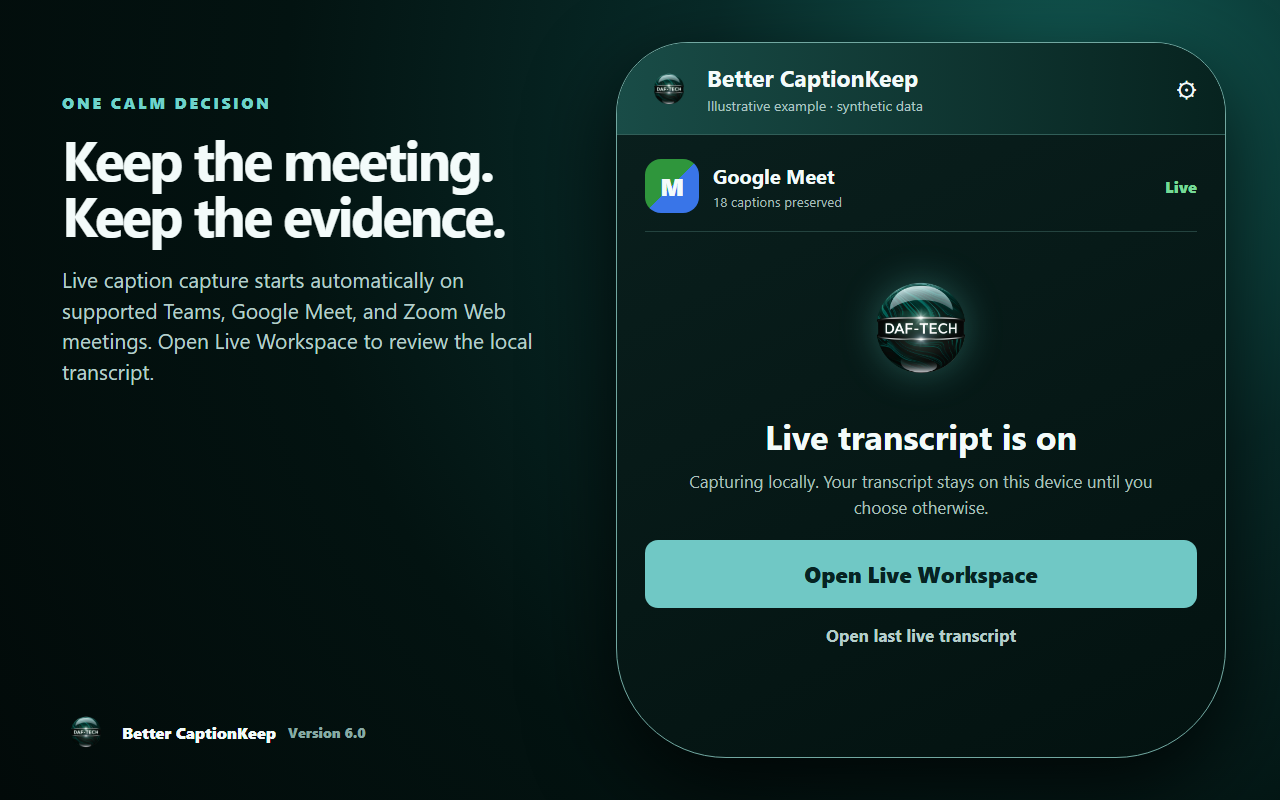
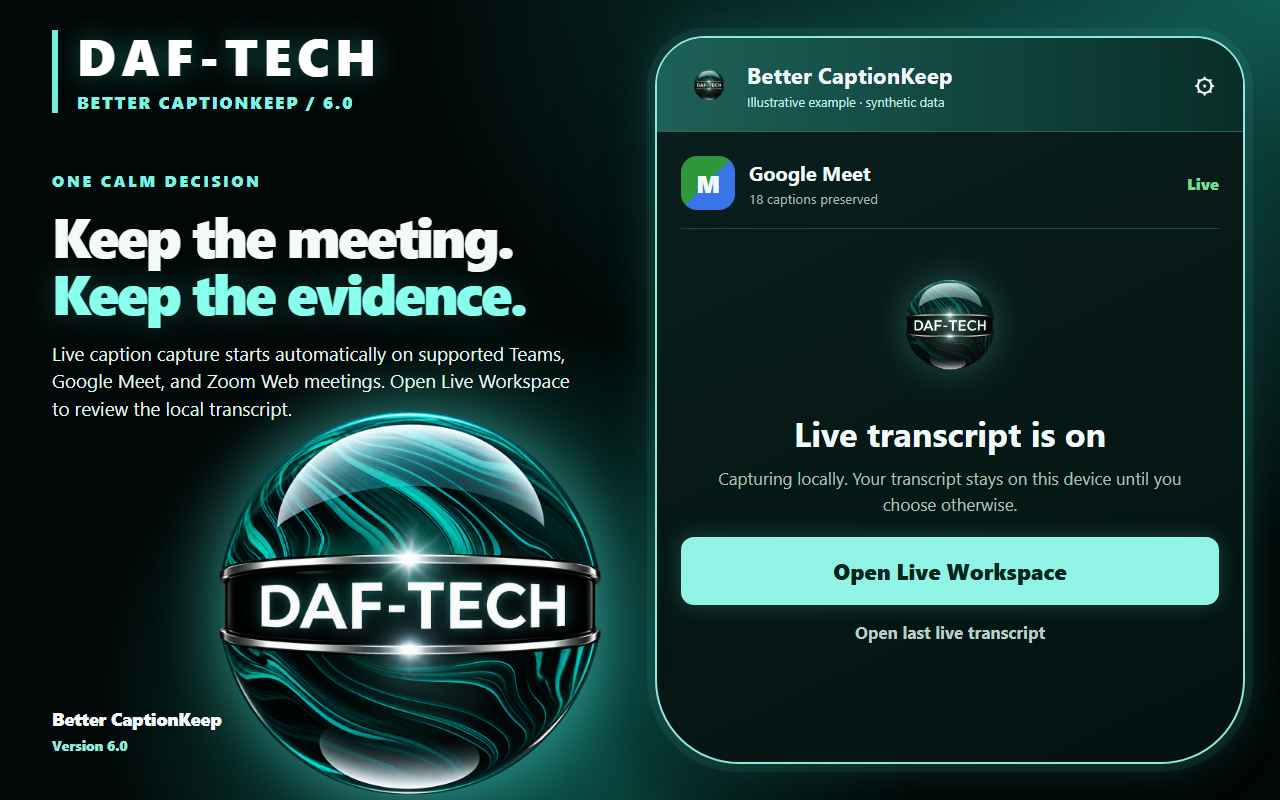
Codex: record owner-approved bold DAF-TECH 6.0 artwork

diff --git a/store-assets/6.0/source.html b/store-assets/6.0/source.html
@@ -2,11 +2,38 @@
 <html lang="en"><head><meta charset="utf-8"><meta name="viewport" content="width=device-width,initial-scale=1"><title>Better CaptionKeep 6.0 Store artwork</title>
 <style>
 *{box-sizing:border-box}html,body{margin:0;width:100%;height:100%;overflow:hidden}body{font-family:Inter,"Segoe UI",Arial,sans-serif;background:#03100f;color:#f3fbfa}.slide{display:none;position:relative;width:100vw;height:100vh;padding:58px 62px;background:radial-gradient(circle at 84% 14%,#135f58 0,#082b29 29%,#031311 62%,#020a09 100%)}body.s1 #s1,body.s2 #s2,body.s3 #s3,body.s4 #s4,body.s5 #s5{display:block}.copy{position:absolute;left:62px;top:92px;width:42%;z-index:2}.eyebrow{font-size:16px;font-weight:850;letter-spacing:.16em;text-transform:uppercase;color:#6fd3ca}.copy h1{text-wrap:balance;font-size:55px;line-height:1.02;letter-spacing:-.045em;margin:18px 0}.copy p{max-width:480px;font-size:21px;line-height:1.45;color:#b6ceca}.brand{position:absolute;left:62px;bottom:44px;display:flex;align-items:center;gap:12px;font-weight:800}.brand img{width:48px;height:48px}.brand small{font-size:14px;color:#88aaa5}.window{position:absolute;right:54px;top:42px;width:610px;height:716px;border:1px solid #72a8a1;border-radius:72px 72px 110px 110px;background:linear-gradient(155deg,#0a201e,#031210);box-shadow:0 30px 86px #000c;overflow:hidden}.head{height:92px;padding:22px 28px;background:linear-gradient(90deg,#194c47,#07231f);display:flex;align-items:center;gap:14px;border-bottom:1px solid #315e58}.head img{width:48px;height:48px}.head b{font-size:23px}.head span{display:block;color:#abc5c1;font-size:14px;margin-top:3px}.gear{margin-left:auto;font-size:25px}.body{padding:24px 28px}.source{display:flex;align-items:center;gap:14px;padding-bottom:18px;border-bottom:1px solid #24433f}.sourceicon{width:54px;height:54px;border-radius:16px;display:grid;place-items:center;background:linear-gradient(135deg,#2f963c 0 50%,#3975e8 50%);font-weight:900;font-size:24px}.source strong{font-size:20px}.source small{display:block;color:#a5bdb9;margin-top:4px}.ready{margin-left:auto;color:#76d997;font-weight:850}.sphere{width:142px;height:142px;margin:25px auto 14px;display:block;filter:drop-shadow(0 0 18px #58c7bb55)}.center{text-align:center}.center h2{text-wrap:balance;font-size:34px;margin:8px 0 10px}.center p{font-size:17px;line-height:1.5;color:#abc0bd;margin:0 auto 20px;max-width:500px}.primary{height:68px;border-radius:13px;background:#70c8c5;color:#062322;display:grid;place-items:center;font-weight:900;font-size:22px}.secondary{text-align:center;padding:16px 0;color:#b6ceca;font-size:17px;font-weight:750}.platforms{display:grid;grid-template-columns:repeat(3,1fr);gap:10px;margin-top:14px}.platform{padding:13px 5px;border:1px solid #35615b;border-radius:13px;text-align:center;background:#102b27;font-weight:800}.tabs{display:flex;gap:8px;margin-bottom:18px}.tab{padding:10px 13px;border-radius:999px;color:#91aaa6;font-weight:750}.tab.on{background:#1d524c;color:#fff}.card{border:1px solid #315d57;background:#0d2925;border-radius:16px;padding:17px;margin-top:14px}.card h3{margin:0 0 9px;font-size:19px}.card p{margin:0;color:#b4c9c5;line-height:1.45}.cite{color:#74d3c8;font-weight:800}.row{display:flex;flex-wrap:wrap;gap:10px;margin-top:14px}.button{padding:11px 14px;border-radius:10px;border:1px solid #4a756f;background:#173934;font-weight:800}.button.hot{background:#6cc4c0;color:#062120}.moment{height:205px;border-radius:16px;background:linear-gradient(140deg,#274c46,#10201e);display:grid;place-items:center;position:relative;overflow:hidden}.moment img{width:118px}.stamp{position:absolute;bottom:15px;left:16px;padding:8px 11px;background:#07120fee;border-radius:9px;font-size:12px}.receipt{display:grid;grid-template-columns:1fr 1fr;gap:12px}.metric{padding:16px;border-radius:14px;background:#102c28;border:1px solid #315954}.metric b{font-size:26px;display:block}.metric span{color:#a8c0bc;font-size:13px}.settings{display:grid;grid-template-columns:1fr 1fr;gap:11px}.setting{padding:14px;border-radius:13px;border:1px solid #315b55;background:#102924}.setting b{display:block;margin-bottom:5px}.setting span{font-size:13px;color:#9eb8b3}.switch{float:right;width:38px;height:21px;border-radius:999px;background:#69c5a0;position:relative}.switch:after{content:"";position:absolute;right:3px;top:3px;width:15px;height:15px;border-radius:50%;background:white}#promo{display:none;position:relative;width:100vw;height:100vh;background:radial-gradient(circle at 76% 46%,#11645b 0,#07322e 25%,#020b0a 67%);overflow:hidden}.promo .orb{position:absolute;right:7%;top:50%;transform:translateY(-50%);height:82%;filter:drop-shadow(0 0 34px #73ddd277)}.promo .pcopy{position:absolute;left:7%;top:18%;width:53%;z-index:2}.promo .label{color:#71d5cc;text-transform:uppercase;letter-spacing:.16em;font-weight:900;font-size:min(2.4vw,17px)}.promo h1{font-size:min(7vw,70px);line-height:.98;letter-spacing:-.045em;margin:15px 0;color:white}.promo p{font-size:min(3vw,24px);color:#bad4cf;margin:0}.promo .product{position:absolute;left:7%;bottom:9%;font-weight:850}body.promo .slide{display:none}body.promo #promo{display:block}body.small .pcopy{top:16%;width:62%}body.small .promo h1{font-size:34px}body.small .promo p{display:none}body.small .promo .orb{height:72%;right:2%}body.small .promo .product{font-size:12px}
+
+/* DAF-TECH campaign framing; product illustrations retain their current teal theme. */
+.slide{background:radial-gradient(ellipse at 40% 87%,#0f665d 0,transparent 38%),radial-gradient(ellipse at 100% 0,#125d56 0,transparent 48%),#010807}
+.slide:before{content:"";position:absolute;left:170px;bottom:-42px;width:480px;height:480px;background:url('../../branding/daf-tech/daf-tech-sphere.png') center/contain no-repeat;filter:drop-shadow(0 0 32px #57e4d78c);z-index:1}
+.campaign-brand{position:absolute;left:52px;top:30px;z-index:3;border-left:6px solid #72eee0;padding-left:19px}
+.campaign-brand b{display:block;color:#fff;font-size:3.2rem;line-height:1;font-weight:950;letter-spacing:.11em;text-shadow:0 0 28px #42e5d45c}
+.campaign-brand span{display:block;margin-top:10px;color:#7cf4e6;font-size:1.05rem;font-weight:800;letter-spacing:.12em}
+.copy{left:52px;top:170px;width:550px;z-index:2}
+.eyebrow{font-size:1rem;color:#78f3e4;letter-spacing:.16em}
+.copy h1{font-size:3.5rem;line-height:1.01;font-weight:900;margin:16px 0 20px;letter-spacing:-.045em;text-wrap:balance}
+.copy h1 em{font-style:normal;color:#89ffed;text-shadow:0 0 36px #59eddb44}
+.copy p{font-size:1.18rem;line-height:1.45;color:#e0f6f1;max-width:520px;margin:0}
+.brand{left:52px;bottom:46px;display:block;max-width:250px;font-size:1.1rem;line-height:1.35;z-index:3}
+.brand img{display:none}.brand small{display:block;color:#96e9df;margin-top:5px;font-size:.85rem}
+.window{right:35px;top:36px;width:590px;height:728px;border:2px solid #8ee9dd;border-radius:50px 50px 84px 84px;box-shadow:0 0 0 8px #72ead912,0 0 52px #34cbbf45,0 30px 86px #000c}
+.head{background:linear-gradient(90deg,#1d6158,#082d27);height:94px}.head b{font-size:1.4rem}.head span{font-size:.8rem;color:#c2eee6}
+.body{padding:24px}.primary,.button.hot{background:#91f3e5;color:#03231d}.primary{box-shadow:0 0 22px #79efd436}
+#s5 .copy h1{font-size:3.18rem}#s5 .copy p{max-width:505px}
+#promo{background:radial-gradient(ellipse at 75% 54%,#155f53 0,transparent 48%),#010807}
+.promo .label{color:#8effed;font-size:1.15rem;letter-spacing:.13em}
+.promo .pcopy{left:5%;top:31%;width:57%}.promo h1 em{font-style:normal;color:#89ffed}.promo h1{font-size:4.5rem;line-height:1.02;letter-spacing:-.05em;text-wrap:balance}
+.promo p{font-size:1.45rem;line-height:1.4;max-width:650px;color:#e3fff7}
+.promo .orb{height:87%;right:2%;filter:drop-shadow(0 0 40px #4bedd777)}
+.promo .product{left:5%;top:6%;bottom:auto;font-size:3rem;font-weight:950;letter-spacing:.1em;color:white;text-shadow:0 0 30px #6fffe85e}
+body.small #promo{width:440px;height:280px}body.small .pcopy{left:6%;top:32%;width:61%}body.small .label{font-size:.66rem;letter-spacing:.07em}body.small .promo h1{font-size:1.85rem;line-height:1.03;margin-top:12px}
+body.small .promo p{display:none}body.small #promo .orb{width:170px;height:170px;right:4px;top:87px;transform:none;object-fit:contain}body.small .promo .product{left:6%;top:8%;font-size:1.65rem;letter-spacing:.1em}
+
 </style></head><body>
-<section id="s1" class="slide"><div class="copy"><div class="eyebrow">One calm decision</div><h1>Keep the meeting. Keep the evidence.</h1><p>Live caption capture starts automatically on supported Teams, Google Meet, and Zoom Web meetings. Open Live Workspace to review the local transcript.</p></div><div class="window"><div class="head"><img src="../../teams-captions-saver/icons/daf-tech-sphere.png"><div><b>Better CaptionKeep</b><span>Illustrative example · synthetic data</span></div><div class="gear">⚙</div></div><div class="body"><div class="source"><div class="sourceicon">M</div><div><strong>Google Meet</strong><small>18 captions preserved</small></div><div class="ready">Live</div></div><img class="sphere" src="../../teams-captions-saver/icons/daf-tech-sphere.png"><div class="center"><h2>Live transcript is on</h2><p>Capturing locally. Your transcript stays on this device until you choose otherwise.</p></div><div class="primary">Open Live Workspace</div><div class="secondary">Open last live transcript</div></div></div><div class="brand"><img src="../../teams-captions-saver/icons/daf-tech-sphere.png">Better CaptionKeep <small>Version 6.0</small></div></section>
-<section id="s2" class="slide"><div class="copy"><div class="eyebrow">Rolling Live Notes</div><h1>Notes that can show their work.</h1><p>Restart-safe rolling drafts cite the exact source captions. Pause, resume, revise, and review without changing the transcript.</p></div><div class="window"><div class="head"><img src="../../teams-captions-saver/icons/daf-tech-sphere.png"><div><b>Live Workspace</b><span>Illustrative example · synthetic data</span></div></div><div class="body"><div class="tabs"><div class="tab">Transcript</div><div class="tab on">Notes</div><div class="tab">Tools</div></div><div class="card"><h3>Rolling notes · Running</h3><p><span class="cite">[C0007]</span> The team agreed that every derivative must retain its source fingerprint.</p><p style="margin-top:12px"><span class="cite">[C0012]</span> The rollout owner will verify browser-specific upgrade behavior.</p><div class="row"><div class="button hot">Update now</div><div class="button">Pause rolling notes</div><div class="button">Review this draft</div></div></div><div class="card"><h3>Rolling revision history</h3><p>Revision 4 · 24 cited captions · locally retained</p></div></div></div><div class="brand"><img src="../../teams-captions-saver/icons/daf-tech-sphere.png">Better CaptionKeep <small>Local cited notes</small></div></section>
-<section id="s3" class="slide"><div class="copy"><div class="eyebrow">Capture Moment</div><h1>Bind the picture to the words.</h1><p>Review a meeting screenshot before local retention, add context, and preserve exact nearby caption evidence.</p></div><div class="window"><div class="head"><img src="../../teams-captions-saver/icons/daf-tech-sphere.png"><div><b>Capture Moment</b><span>Illustrative example · synthetic data</span></div></div><div class="body"><div class="moment"><img src="../../teams-captions-saver/icons/daf-tech-sphere.png"><div class="stamp">Synthetic screen · 10:42:18 AM</div></div><div class="card"><h3>Nearby evidence</h3><p><span class="cite">[C0041]</span> “Keep the source beside every decision.”</p><p style="margin-top:10px"><span class="cite">[C0042]</span> “The visual is supporting evidence, never the transcript.”</p></div><div class="row"><div class="button hot">Keep this moment locally</div><div class="button">Discard moment</div></div></div></div><div class="brand"><img src="../../teams-captions-saver/icons/daf-tech-sphere.png">Better CaptionKeep <small>User-reviewed evidence</small></div></section>
-<section id="s4" class="slide"><div class="copy"><div class="eyebrow">Meeting Receipt</div><h1>From live captions to a durable record.</h1><p>Search, reopen, export, ask cited questions, and retain reviewed outcomes—while the original captions remain untouched.</p></div><div class="window"><div class="head"><img src="../../teams-captions-saver/icons/daf-tech-sphere.png"><div><b>Meeting Receipt</b><span>Illustrative example · synthetic data</span></div></div><div class="body"><div class="receipt"><div class="metric"><b>86</b><span>source captions</span></div><div class="metric"><b>7</b><span>evidence markers</span></div><div class="metric"><b>4</b><span>note revisions</span></div><div class="metric"><b>1</b><span>captured moment</span></div></div><div class="card"><h3>Ask this transcript</h3><p>What decision was made about retention?</p><p style="margin-top:12px"><span class="cite">Answer:</span> The pilot retains local meeting receipts for 30 days unless managed policy requires less. <span class="cite">[C0062] [C0065]</span></p></div><div class="row"><div class="button hot">Keep reviewed answer</div><div class="button">Clear draft</div></div></div></div><div class="brand"><img src="../../teams-captions-saver/icons/daf-tech-sphere.png">Better CaptionKeep <small>Source-preserving by design</small></div></section>
-<section id="s5" class="slide"><div class="copy"><div class="eyebrow">Light front door. Deep back door.</div><h1>Simple for meetings. Serious for operations.</h1><p>Privacy, retention, templates, exports, enterprise policy, Microsoft 365, diagnostics, and five browser targets live behind one settings gear.</p></div><div class="window"><div class="head"><img src="../../teams-captions-saver/icons/daf-tech-sphere.png"><div><b>All Settings</b><span>Illustrative example · synthetic data</span></div></div><div class="body"><div class="settings"><div class="setting"><i class="switch"></i><b>Live transcript</b><span>Starts on for supported meetings</span></div><div class="setting"><i class="switch"></i><b>Privacy Scrubber</b><span>Review before external handoff</span></div><div class="setting"><b>Meeting templates</b><span>Local, versioned, source-bound</span></div><div class="setting"><b>Retention</b><span>User and managed policy controls</span></div><div class="setting"><b>Microsoft 365</b><span>Customer-owned tenant setup</span></div><div class="setting"><b>Exports</b><span>TXT · Markdown · DOCX · PDF</span></div></div><div class="card"><h3>Browser commitment</h3><p>Chrome · Edge · Brave · Firefox · Opera</p></div><div class="card"><h3>Local by default</h3><p>No meeting bot. No required CaptionKeep account. No publisher-operated transcript cloud.</p></div></div></div><div class="brand"><img src="../../teams-captions-saver/icons/daf-tech-sphere.png">Better CaptionKeep <small>Advanced controls when you need them</small></div></section>
-<section id="promo" class="promo"><div class="pcopy"><div class="label">Better CaptionKeep 6.0</div><h1>Keep the meeting. Keep the evidence.</h1><p>Local-first live transcripts and cited meeting records.</p></div><img class="orb" src="../../teams-captions-saver/icons/daf-tech-sphere.png"><div class="product">A DAF-TECH product</div></section>
+<section id="s1" class="slide"><div class="campaign-brand"><b>DAF-TECH</b><span>BETTER CAPTIONKEEP / 6.0</span></div><div class="copy"><div class="eyebrow">One calm decision</div><h1>Keep the meeting.<br><em>Keep the evidence.</em></h1><p>Live caption capture starts automatically on supported Teams, Google Meet, and Zoom Web meetings. Open Live Workspace to review the local transcript.</p></div><div class="window"><div class="head"><img src="../../teams-captions-saver/icons/daf-tech-sphere.png"><div><b>Better CaptionKeep</b><span>Illustrative example · synthetic data</span></div><div class="gear">⚙</div></div><div class="body"><div class="source"><div class="sourceicon">M</div><div><strong>Google Meet</strong><small>18 captions preserved</small></div><div class="ready">Live</div></div><img class="sphere" src="../../teams-captions-saver/icons/daf-tech-sphere.png"><div class="center"><h2>Live transcript is on</h2><p>Capturing locally. Your transcript stays on this device until you choose otherwise.</p></div><div class="primary">Open Live Workspace</div><div class="secondary">Open last live transcript</div></div></div><div class="brand"><img src="../../teams-captions-saver/icons/daf-tech-sphere.png">Better CaptionKeep <small>Version 6.0</small></div></section>
+<section id="s2" class="slide"><div class="campaign-brand"><b>DAF-TECH</b><span>BETTER CAPTIONKEEP / 6.0</span></div><div class="copy"><div class="eyebrow">Rolling Live Notes</div><h1>Notes that can<br><em>show their work.</em></h1><p>Restart-safe rolling drafts cite the exact source captions. Pause, resume, revise, and review without changing the transcript.</p></div><div class="window"><div class="head"><img src="../../teams-captions-saver/icons/daf-tech-sphere.png"><div><b>Live Workspace</b><span>Illustrative example · synthetic data</span></div></div><div class="body"><div class="tabs"><div class="tab">Transcript</div><div class="tab on">Notes</div><div class="tab">Tools</div></div><div class="card"><h3>Rolling notes · Running</h3><p><span class="cite">[C0007]</span> The team agreed that every derivative must retain its source fingerprint.</p><p style="margin-top:12px"><span class="cite">[C0012]</span> The rollout owner will verify browser-specific upgrade behavior.</p><div class="row"><div class="button hot">Update now</div><div class="button">Pause rolling notes</div><div class="button">Review this draft</div></div></div><div class="card"><h3>Rolling revision history</h3><p>Revision 4 · 24 cited captions · locally retained</p></div></div></div><div class="brand"><img src="../../teams-captions-saver/icons/daf-tech-sphere.png">Better CaptionKeep <small>Local cited notes</small></div></section>
+<section id="s3" class="slide"><div class="campaign-brand"><b>DAF-TECH</b><span>BETTER CAPTIONKEEP / 6.0</span></div><div class="copy"><div class="eyebrow">Capture Moment</div><h1>Bind the picture<br><em>to the words.</em></h1><p>Review a meeting screenshot before local retention, add context, and preserve exact nearby caption evidence.</p></div><div class="window"><div class="head"><img src="../../teams-captions-saver/icons/daf-tech-sphere.png"><div><b>Capture Moment</b><span>Illustrative example · synthetic data</span></div></div><div class="body"><div class="moment"><img src="../../teams-captions-saver/icons/daf-tech-sphere.png"><div class="stamp">Synthetic screen · 10:42:18 AM</div></div><div class="card"><h3>Nearby evidence</h3><p><span class="cite">[C0041]</span> “Keep the source beside every decision.”</p><p style="margin-top:10px"><span class="cite">[C0042]</span> “The visual is supporting evidence, never the transcript.”</p></div><div class="row"><div class="button hot">Keep this moment locally</div><div class="button">Discard moment</div></div></div></div><div class="brand"><img src="../../teams-captions-saver/icons/daf-tech-sphere.png">Better CaptionKeep <small>User-reviewed evidence</small></div></section>
+<section id="s4" class="slide"><div class="campaign-brand"><b>DAF-TECH</b><span>BETTER CAPTIONKEEP / 6.0</span></div><div class="copy"><div class="eyebrow">Meeting Receipt</div><h1>From live captions<br><em>to a durable record.</em></h1><p>Search, reopen, export, ask cited questions, and retain reviewed outcomes—while the original captions remain untouched.</p></div><div class="window"><div class="head"><img src="../../teams-captions-saver/icons/daf-tech-sphere.png"><div><b>Meeting Receipt</b><span>Illustrative example · synthetic data</span></div></div><div class="body"><div class="receipt"><div class="metric"><b>86</b><span>source captions</span></div><div class="metric"><b>7</b><span>evidence markers</span></div><div class="metric"><b>4</b><span>note revisions</span></div><div class="metric"><b>1</b><span>captured moment</span></div></div><div class="card"><h3>Ask this transcript</h3><p>What decision was made about retention?</p><p style="margin-top:12px"><span class="cite">Answer:</span> The pilot retains local meeting receipts for 30 days unless managed policy requires less. <span class="cite">[C0062] [C0065]</span></p></div><div class="row"><div class="button hot">Keep reviewed answer</div><div class="button">Clear draft</div></div></div></div><div class="brand"><img src="../../teams-captions-saver/icons/daf-tech-sphere.png">Better CaptionKeep <small>Source-preserving by design</small></div></section>
+<section id="s5" class="slide"><div class="campaign-brand"><b>DAF-TECH</b><span>BETTER CAPTIONKEEP / 6.0</span></div><div class="copy"><div class="eyebrow">Light front door. Deep back door.</div><h1>Simple for meetings.<br><em>Serious for operations.</em></h1><p>Privacy, retention, templates, exports, enterprise policy, Microsoft 365, diagnostics, and five browser targets live behind one settings gear.</p></div><div class="window"><div class="head"><img src="../../teams-captions-saver/icons/daf-tech-sphere.png"><div><b>All Settings</b><span>Illustrative example · synthetic data</span></div></div><div class="body"><div class="settings"><div class="setting"><i class="switch"></i><b>Live transcript</b><span>Starts on for supported meetings</span></div><div class="setting"><i class="switch"></i><b>Privacy Scrubber</b><span>Review before external handoff</span></div><div class="setting"><b>Meeting templates</b><span>Local, versioned, source-bound</span></div><div class="setting"><b>Retention</b><span>User and managed policy controls</span></div><div class="setting"><b>Microsoft 365</b><span>Customer-owned tenant setup</span></div><div class="setting"><b>Exports</b><span>TXT · Markdown · DOCX · PDF</span></div></div><div class="card"><h3>Browser commitment</h3><p>Chrome · Edge · Brave · Firefox · Opera</p></div><div class="card"><h3>Local by default</h3><p>No meeting bot. No required CaptionKeep account. No publisher-operated transcript cloud.</p></div></div></div><div class="brand"><img src="../../teams-captions-saver/icons/daf-tech-sphere.png">Better CaptionKeep <small>Advanced controls</small></div></section>
+<section id="promo" class="promo"><div class="pcopy"><div class="label">Better CaptionKeep 6.0</div><h1>Keep the meeting.<br><em>Keep the evidence.</em></h1><p>Local-first live transcripts and cited meeting records.</p></div><img class="orb" src="../../branding/daf-tech/daf-tech-sphere.png"><div class="product">DAF-TECH</div></section>
 <script>const q=new URLSearchParams(location.search);document.body.className=q.has('promo')?`promo ${q.get('promo')}`:`s${q.get('slide')||'1'}`;</script></body></html>

diff --git a/store-assets/6.0/README.md b/store-assets/6.0/README.md
@@ -13,13 +13,14 @@ Generated artifacts:
   Center at submission time.
 - Approved title, short description, full description, privacy answers,
   certification notes, and browser-support wording.
-- `manifest.json` containing filenames, dimensions, SHA-256 hashes, and a
-  deliberately pending release-owner approval field.
+- `manifest.json` containing filenames, dimensions, SHA-256 hashes, and release-owner approval bound to those artifact hashes.
 
 Run `npm run store:assets:render` to regenerate the seven PNG files and their
 manifest from `source.html`. The artwork uses only synthetic meeting content.
-Do not change the approval field until the frozen candidate has been visually
-reviewed by the release owner.
+David Farris approved the seven bold DAF-TECH illustrations on October 24,
+2026. This approval covers the hashes recorded in `manifest.json`; regeneration
+requires renewed visual review and must reset approval. Artwork approval does
+not certify an extension package or imply Store acceptance.
 
 The Microsoft Edge Update REST API cannot upload or modify this listing
 metadata. The reviewed bundle must be entered in Partner Center and the
